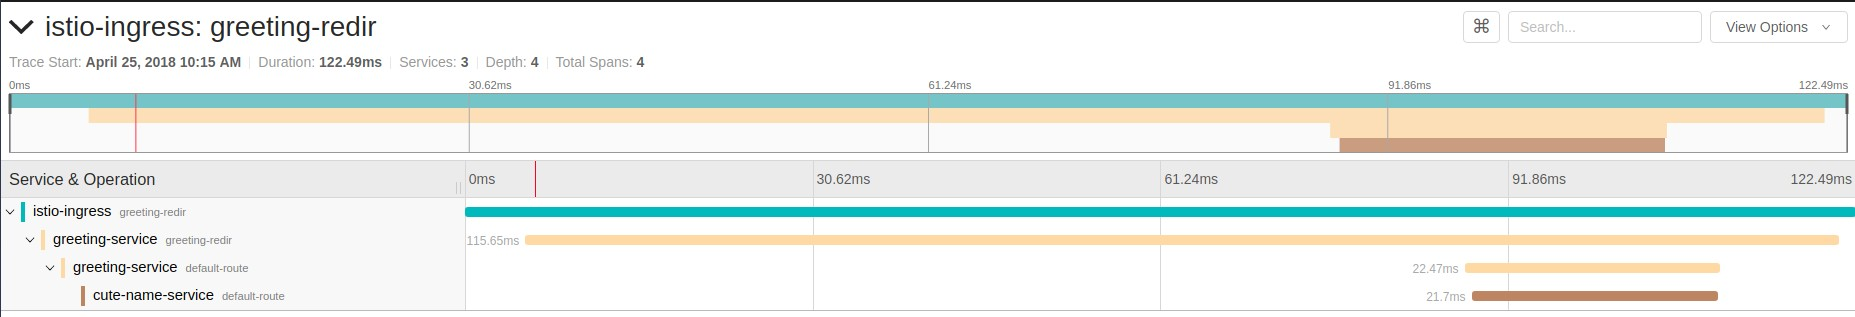
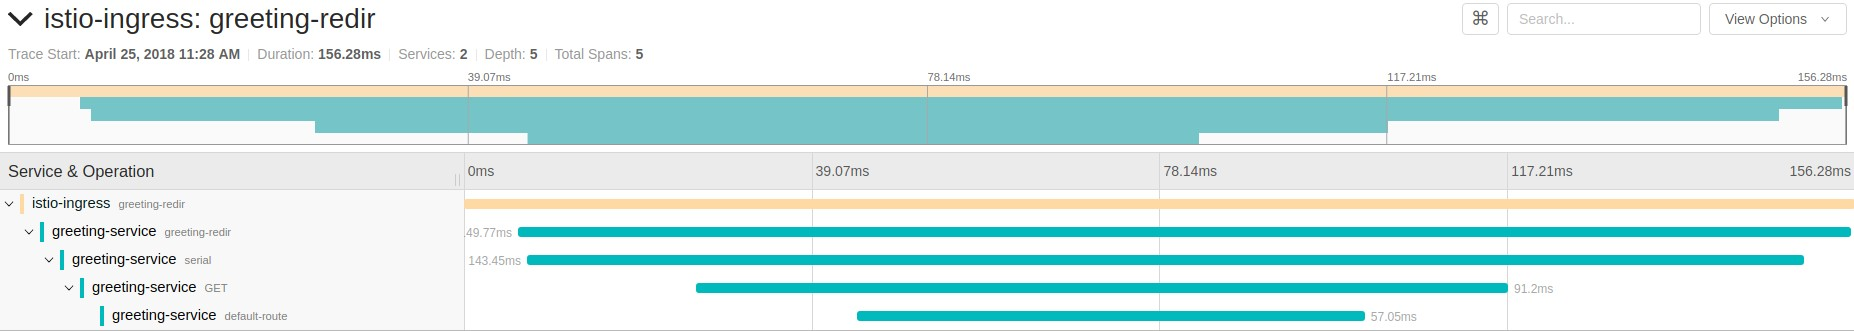
Add changes that show how automatic instrumentation can take place

diff --git a/greeting-service/src/main/java/me/snodrop/istio/dt/GreeetingController.java b/greeting-service/src/main/java/me/snodrop/istio/dt/GreeetingController.java
@@ -1,17 +1,8 @@
 package me.snodrop.istio.dt;
 
 import java.net.URI;
-import java.util.Arrays;
-import java.util.List;
-import java.util.Map;
-import java.util.stream.Collectors;
 import org.springframework.beans.factory.annotation.Value;
-import org.springframework.http.HttpEntity;
-import org.springframework.http.HttpHeaders;
-import org.springframework.http.HttpMethod;
-import org.springframework.http.ResponseEntity;
 import org.springframework.web.bind.annotation.GetMapping;
-import org.springframework.web.bind.annotation.RequestHeader;
 import org.springframework.web.bind.annotation.RestController;
 import org.springframework.web.client.RestTemplate;
 
@@ -29,18 +20,9 @@ public class GreeetingController {
     }
 
     @GetMapping("/api/greeting")
-    public Greeting serial(@RequestHeader HttpHeaders headers) {
-        final HttpHeaders tracingHeaders = tracingHeaders(headers);
-
-        final ResponseEntity<String> responseEntity =
-            restTemplate.exchange(
-                getURI(cutenameServiceName, "api/name"),
-                HttpMethod.GET,
-                new HttpEntity<>(tracingHeaders),
-                String.class
-            );
-
-        final String name = responseEntity.getBody();
+    public Greeting serial() {
+        final String name =
+            restTemplate.getForObject(getURI(cutenameServiceName, "api/name"), String.class);
 
         return new Greeting(String.format("Hello, %s!", name));
     }
@@ -49,29 +31,6 @@ public class GreeetingController {
         return URI.create(String.format("http://%s/%s", serviceName, path));
     }
 
-
-    private static final List<String> HEADERS_THAT_NEED_TO_BE_PROPAGATES = Arrays.asList(
-        "x-request-id",
-        "x-b3-traceid",
-        "x-b3-spanid",
-        "x-b3-parentspanid",
-        "x-b3-sampled",
-        "x-b3-flags",
-        "x-ot-span-context"
-    );
-
-    private HttpHeaders tracingHeaders(HttpHeaders allHeaders) {
-        final List<Map.Entry<String, List<String>>> list =
-            allHeaders
-                .entrySet()
-                .stream()
-                .filter(e -> HEADERS_THAT_NEED_TO_BE_PROPAGATES.contains(e.getKey()))
-                .collect(Collectors.toList());
-
-        final HttpHeaders result = new HttpHeaders();
-        list.forEach(e -> result.add(e.getKey(), e.getValue().get(0)));
-        return result;
-    }
 
     static class Greeting {
         private final String message;
